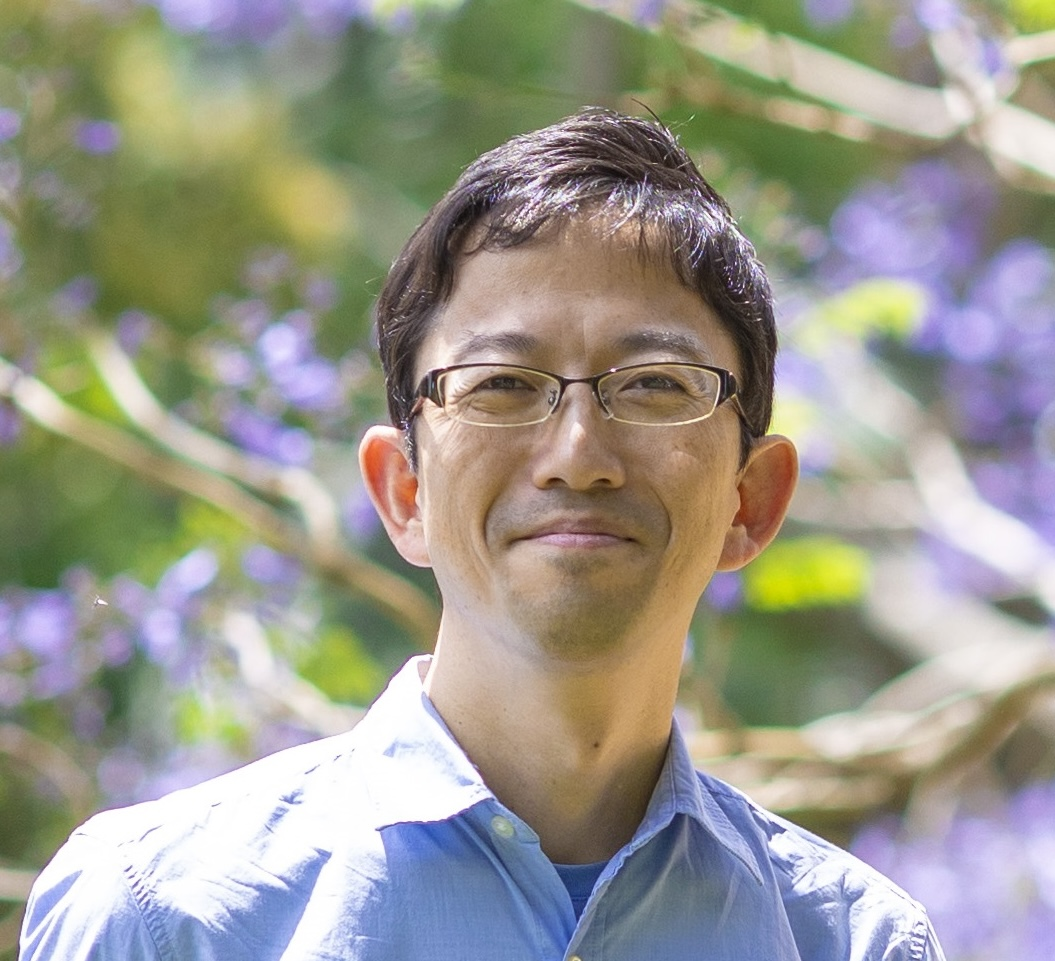
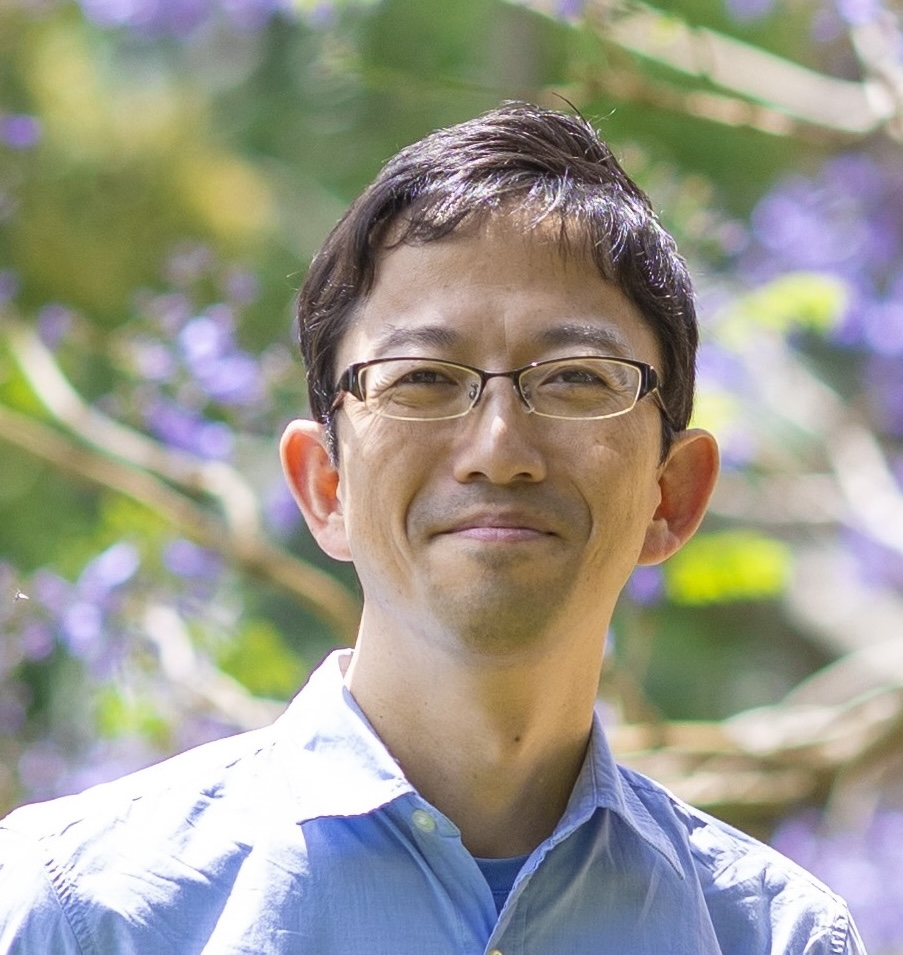
image formatting

diff --git a/assets/css/main.css b/assets/css/main.css
@@ -292,7 +292,7 @@ input, select, textarea {
 	}
 	
 
-/* Profiles, bio blurps -- organisers */
+/* Profiles, bio blurps -- organisers and plenary speakers */
 
   .bio {
     display: flex;
@@ -312,6 +312,8 @@ input, select, textarea {
 	.bio-image {
 		width: 100%;
 		height: auto;
+		display: block;
+		object-fit: cover;
 	}
     
 	.bio-details {
@@ -322,15 +324,6 @@ input, select, textarea {
 		vertical-align: top;
 		text-align: justify;
 	}
-
-/* Profiles, bio blurps -- plenary speakers */
-	
-	  .bio-image-container2 {
-		width: 250px;
-		height: 250px;
-		border-radius: 10%;
-		overflow: hidden;
-	  }
 
 
 /* Table */
